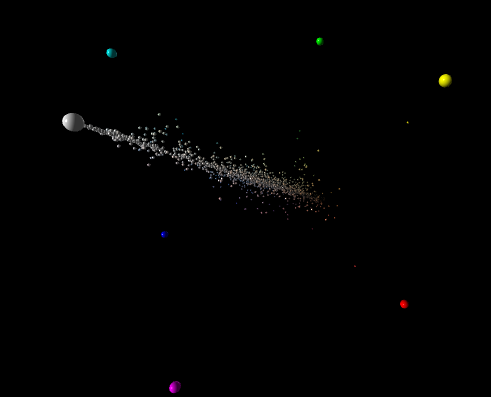
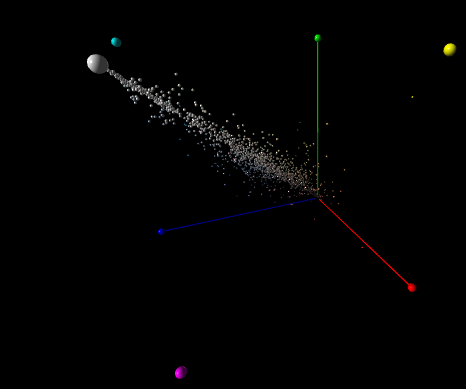
Draw RGB axis

diff --git a/colorView.py b/colorView.py
@@ -60,6 +60,11 @@ if __name__ == "__main__":
 	spheres.append(sphere(pos=vector(0,255,255), radius=5., color=vector(0,1,1)))
 	spheres.append(sphere(pos=vector(255,255,255), radius=5., color=vector(1,1,1)))
 
+	# Connect RGB axis with solid cylinders
+	cylinder(pos=vector(0,0,0), axis=vector(255,0,0), color=vector(1,0,0), radius=1)
+	cylinder(pos=vector(0,0,0), axis=vector(0,255,0), color=vector(0,1,0), radius=1)
+	cylinder(pos=vector(0,0,0), axis=vector(0,0,255), color=vector(0,0,1), radius=1)
+
 	# Scan filenames and average RGB values
 	for filename in os.listdir(source_path):
 		print("Processing " + filename)
